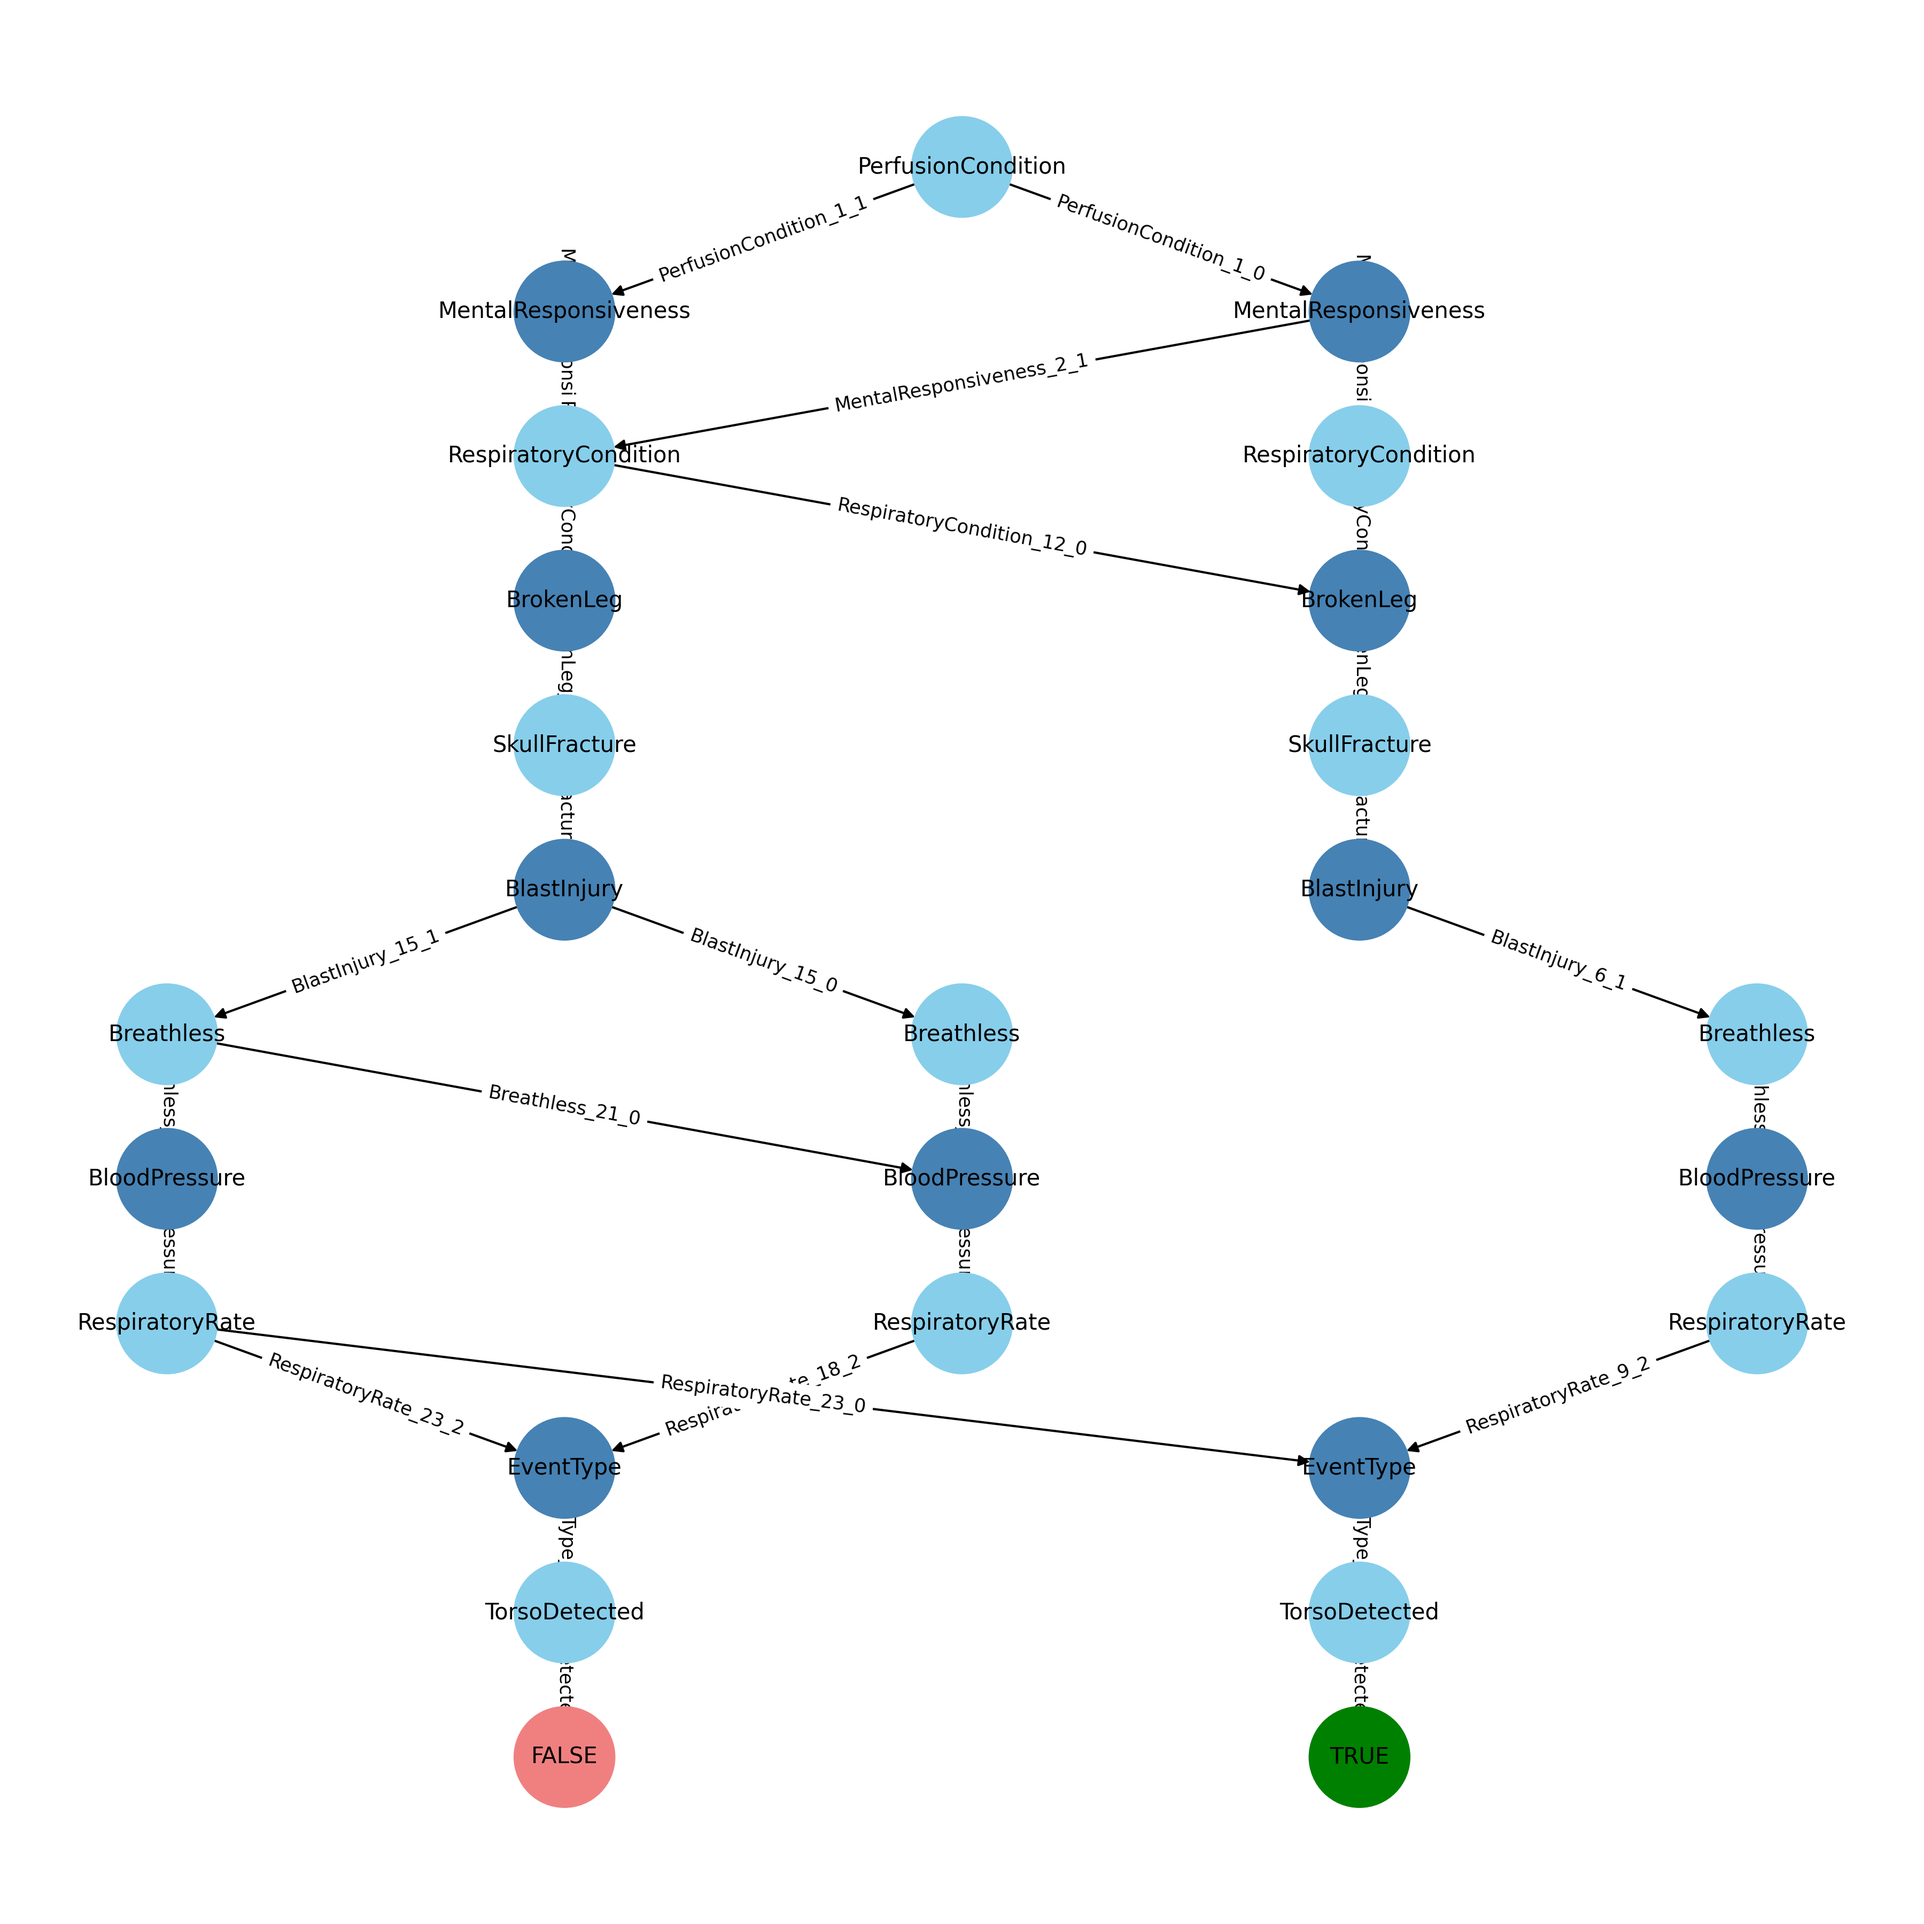
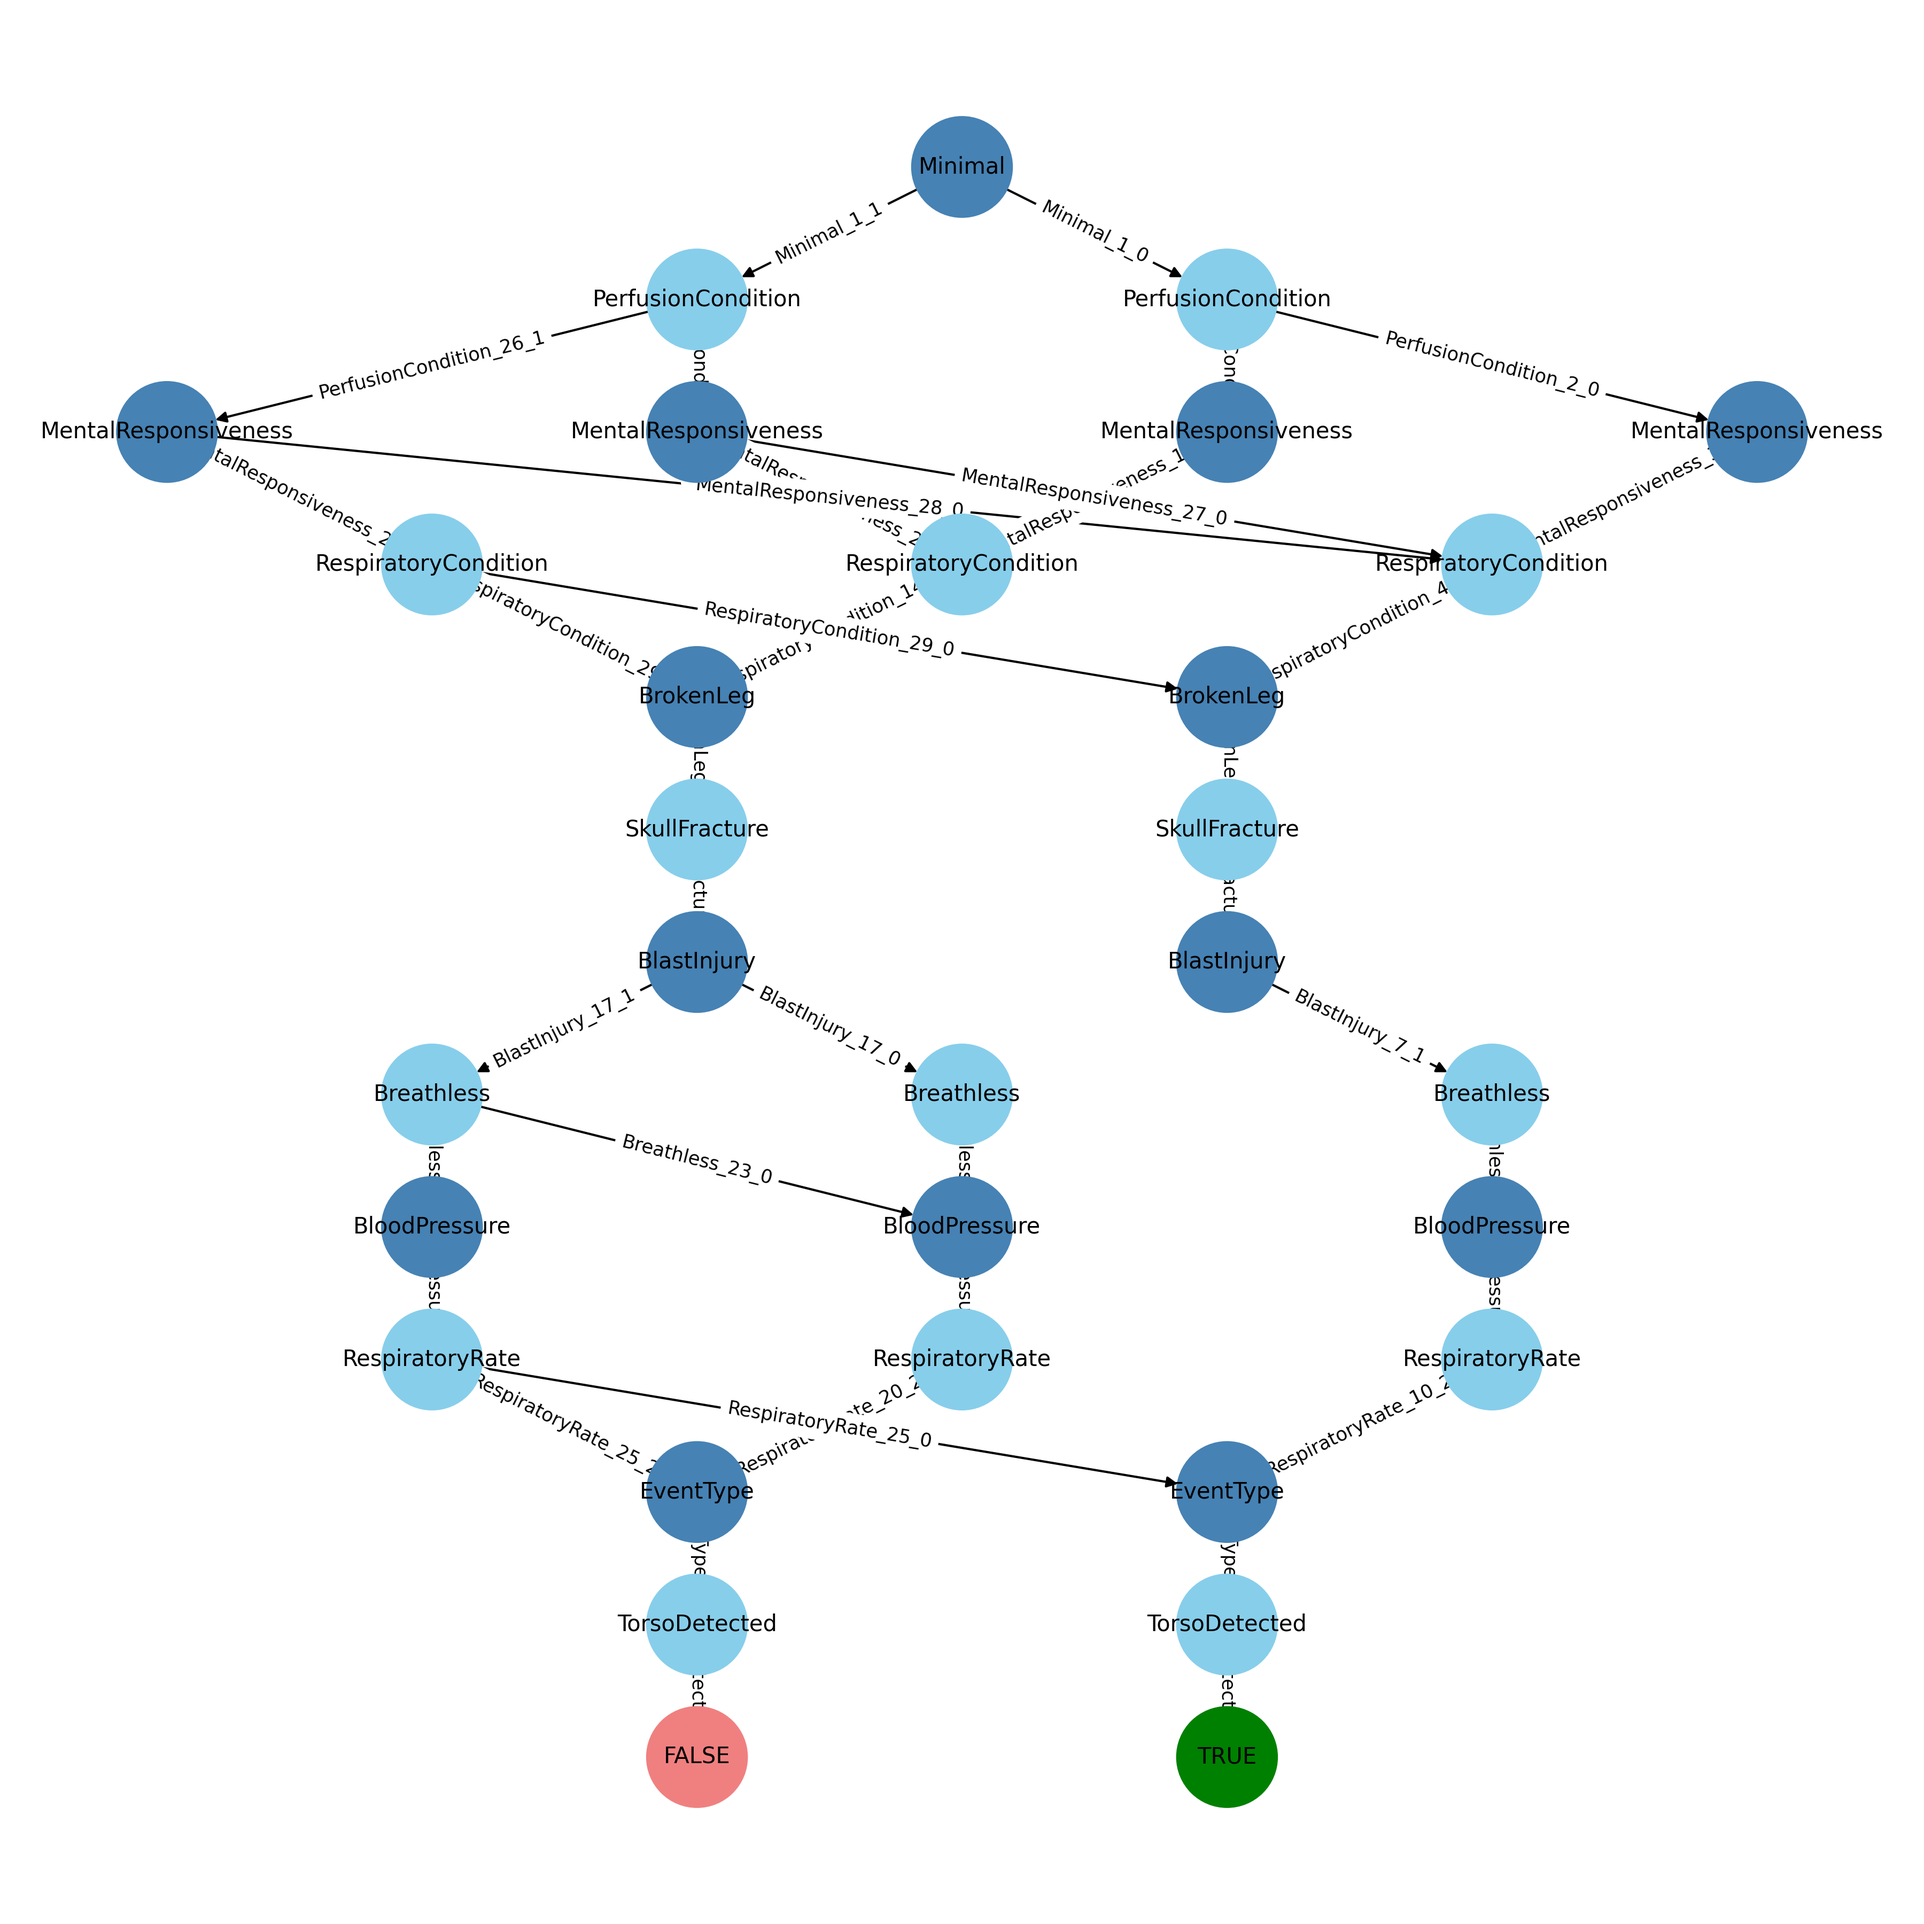
Add chaining

diff --git a/src/run.py b/src/run.py
@@ -19,7 +19,7 @@ from verifications.solver_class import SATSolver
 
 DATASET_NAME = "darpatriage"
 VARS = 11
-OUTCOMES = ["Immediate", "Delayed", "Minimal"]
+OUTCOMES = ["Minimal", "Delayed", "Immediate"]
 LEAVES = ["Breathless", 
             "EventType", 
             "PerfusionCondition", 
@@ -37,7 +37,7 @@ DATASET_CONFIG = {
     "id": None,
     "name": DATASET_NAME,
     "filetype": "net",
-    "vars": 11,
+    "vars": 12,
     "root": None,
     "leaves": LEAVES,
     "threshold": 0.5000001,
@@ -174,11 +174,11 @@ if __name__ == '__main__':
         DATASET_CONFIG["root"] = DATASET_ROOT
         DATASET_CONFIG['id'] = DATASET_ROOT
         
-        # run_net_to_odd_compilation(DATASET_NAME, DATASET_CONFIG)
+        run_net_to_odd_compilation(DATASET_NAME, DATASET_CONFIG)
     
         odd_filename = f"odd_models/{DATASET_NAME}_{DATASET_ROOT}.odd"
         save_path = f"{RESULTS_DIR}/{DATASET_NAME}/{DATASET_NAME}_{DATASET_ROOT}.png"
-        # run_plot_odd(odd_filename=odd_filename, save_path=save_path, display_block=False)
+        run_plot_odd(odd_filename=odd_filename, save_path=save_path, display_block=True)
     
         cnf_filename = f"cnf_files/{DATASET_NAME}_{DATASET_ROOT}.json"
         cnf_filenames.append(cnf_filename)
@@ -187,6 +187,8 @@ if __name__ == '__main__':
         cnf, _, _, _ = read_cnf_from_json(cnf_filename)
         total_clauses += len(cnf.clauses)
         test_if_cnf_satisfiable(cnf=cnf)
+        
+        DATASET_CONFIG["leaves"].append(DATASET_ROOT)
     
     ensemble_cnf_filename = f"cnf_files/{DATASET_NAME}_ensemble.json"
     run_encoding_ensemble(cnf_files=cnf_filenames, cnf_save_filename=ensemble_cnf_filename)
